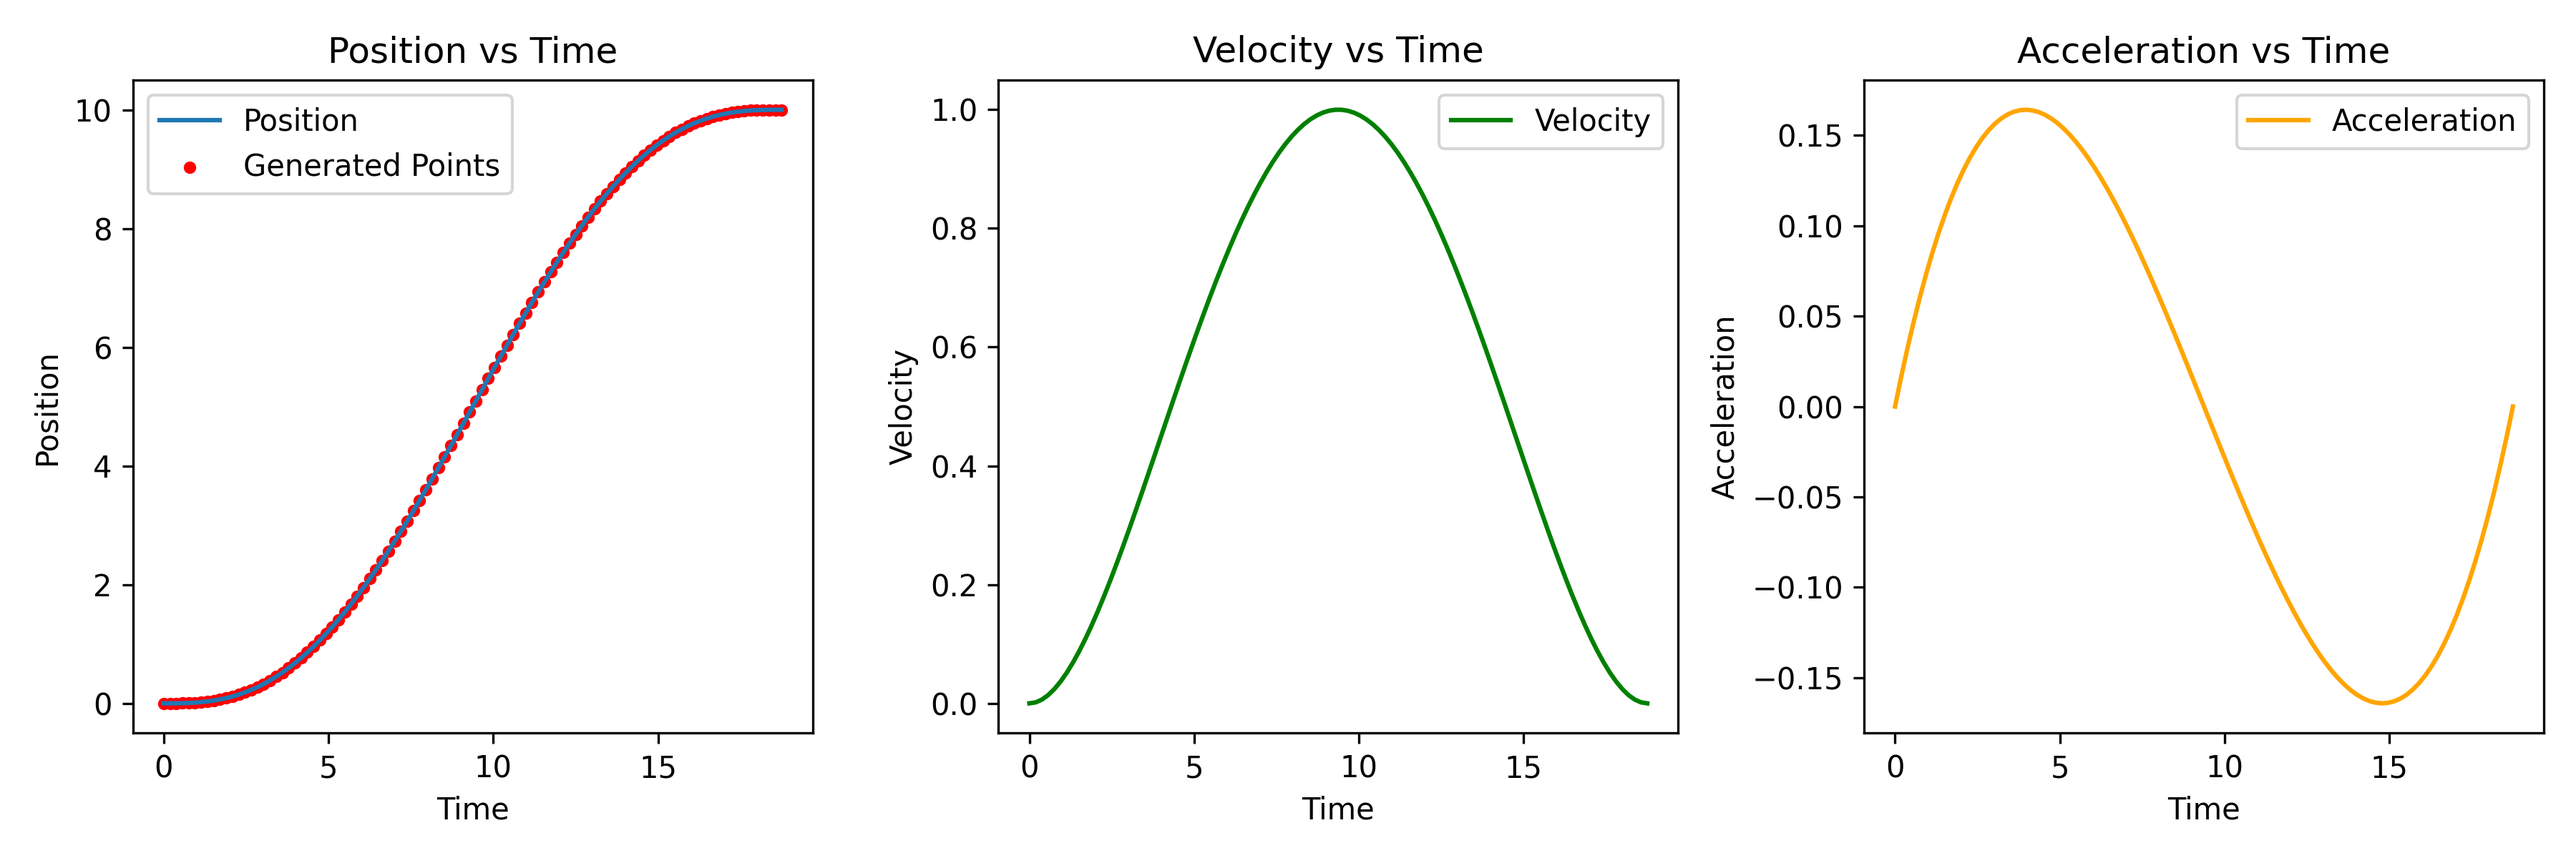
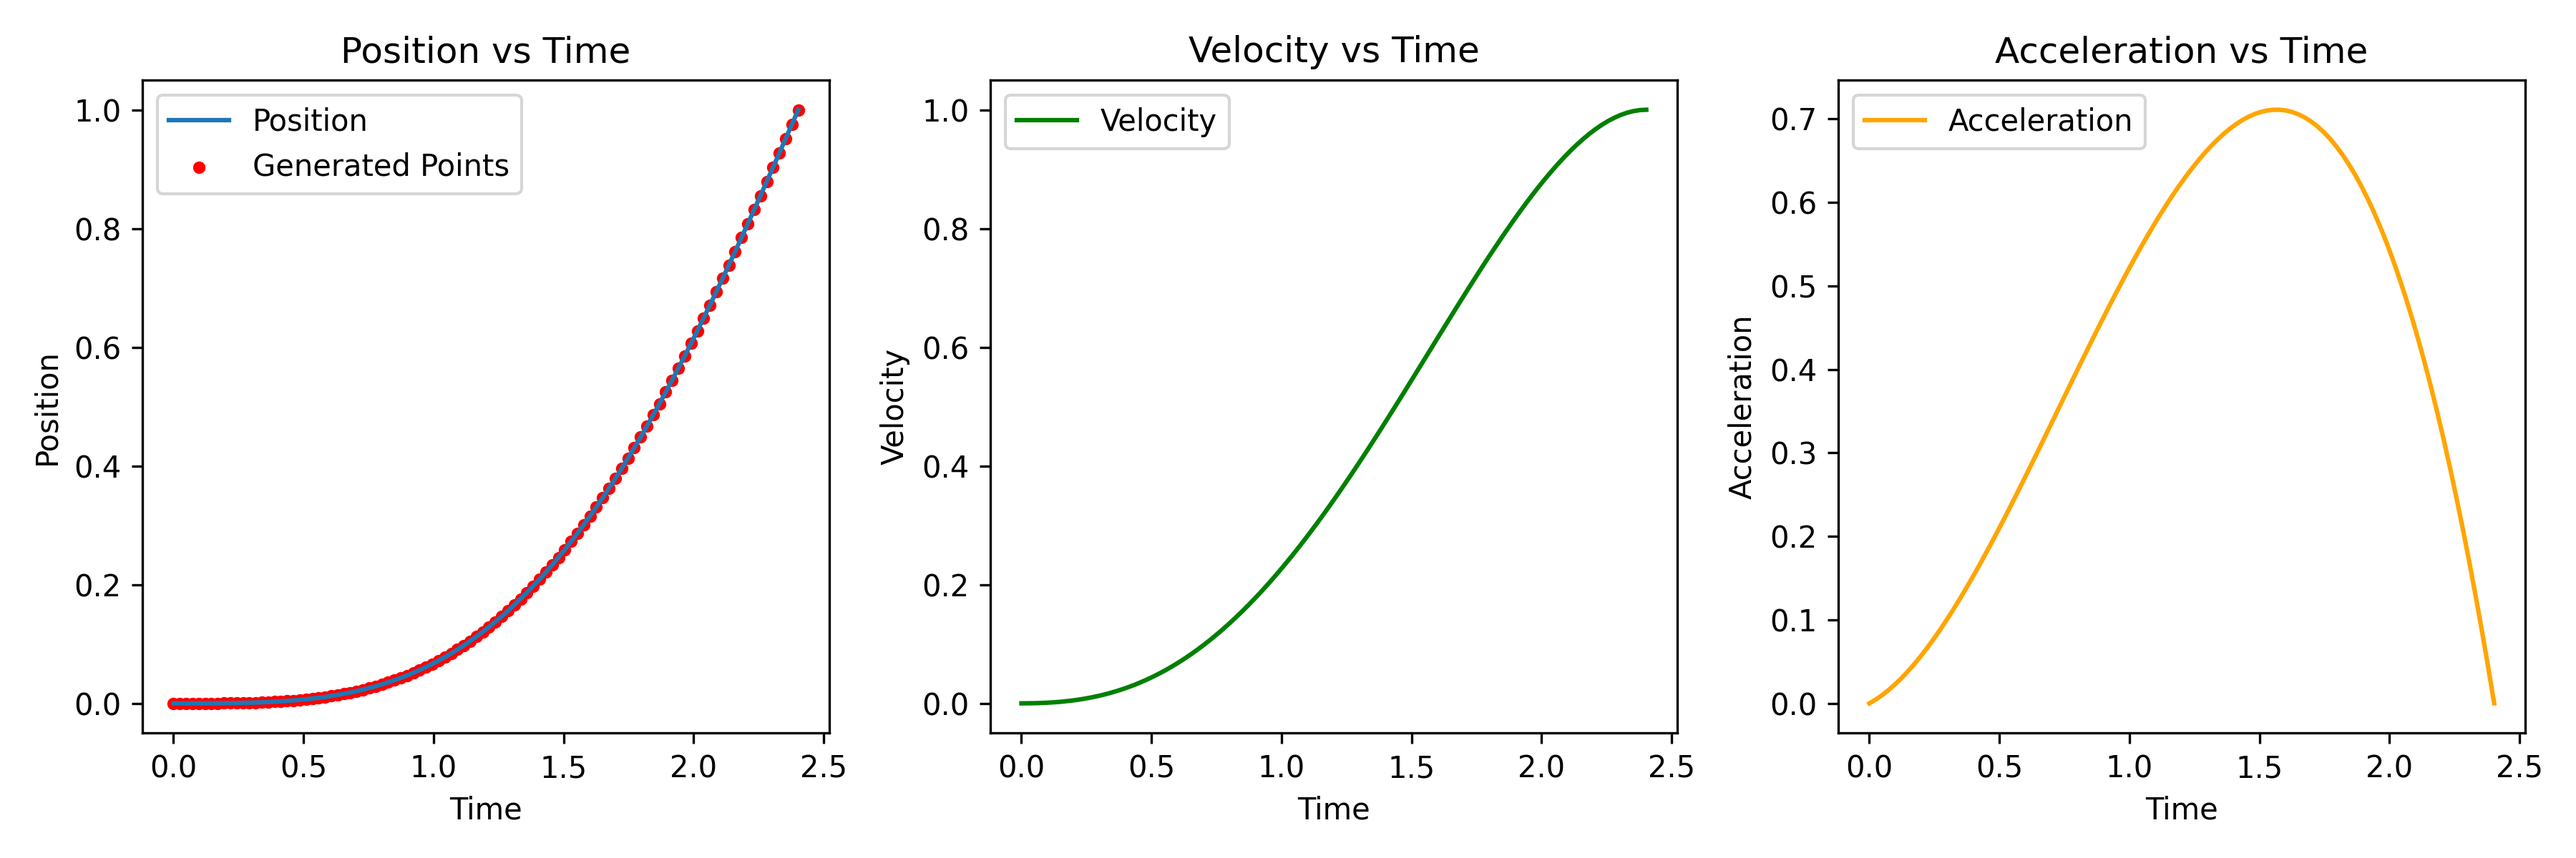
motion planning init

diff --git a/experiments/fifth_order_polynomial_time_scaling/simple_linear_motion.py b/experiments/fifth_order_polynomial_time_scaling/simple_linear_motion.py
@@ -86,13 +86,15 @@ if __name__ == '__main__':
     log_dir = os.path.dirname(os.path.abspath(__file__))  # Get the directory of the current script
     
     start_pos = 0
-    end_pos = 10
-    duration = 5
+    end_pos = 1
+    start_vel = 0
+    end_vel = 1
+    # duration = 5
     max_vel = 1.0
     max_acc = 1.0
 
     # Generate fifth-order polynomial coefficients
-    coefficients, duration = fifth_order_polynomial_time_scaling(start_pos, end_pos, start_vel=0, end_vel=0.0, max_vel=max_vel, max_acc=max_acc)
+    coefficients, duration = fifth_order_polynomial_time_scaling(start_pos, end_pos, start_vel=start_vel, end_vel=end_vel, max_vel=max_vel, max_acc=max_acc)
     print(f"Fifth Order Polynomial Coefficients (A, B, C, D, E, F): {coefficients}, Duration {duration}")
 
     # Generate trajectory points

diff --git a/basic_algos/motion_planning/search_methods/a_star.py b/basic_algos/motion_planning/search_methods/a_star.py
@@ -1,0 +1,5 @@
+class AStar:
+    def __init__(self, heuristic_func, cost_func):
+        self.heuristic_func = heuristic_func
+        self.cost_func = cost_func        
+
